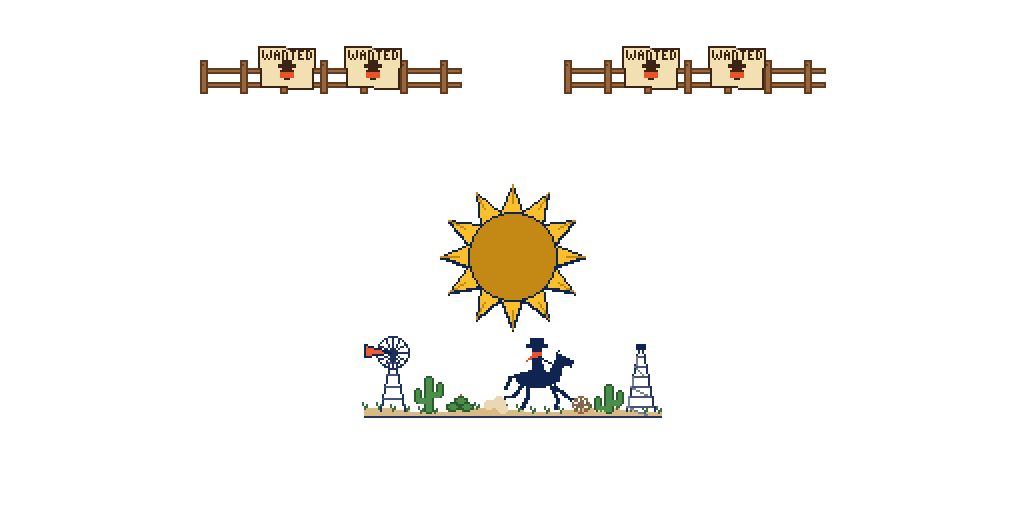
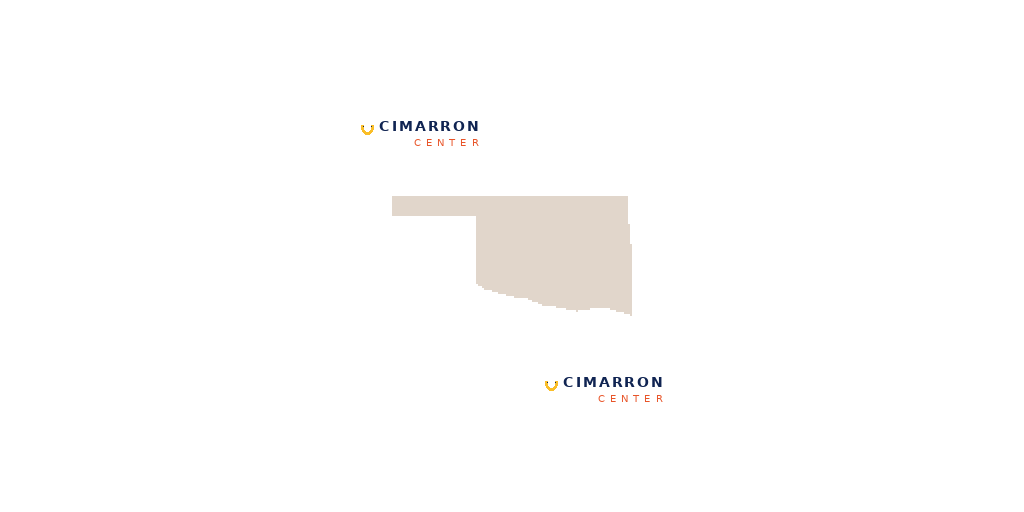
Redesign the OKC Outlaws court as a sleek, minimal floor
Replace the fence, rowel and prairie with a faint wood-stain outline of
Oklahoma behind the logo, a minimal fictional sponsor (Cimarron Center)
placed in open floor between each three-point arc and half court, clear
of the court lines, and #OUTLAWNATION on the near apron.

Claude-Session: https://claude.ai/code/session_019xdidrNboBfdBqy3KgEpk9

diff --git a/hoopland/make_outlaws_overlay.py b/hoopland/make_outlaws_overlay.py
@@ -1,155 +1,71 @@
-"""Generate the OKC Outlaws court overlay for Hoop Land (1024x512 transparent PNG)."""
+"""Generate the OKC Outlaws court overlay for Hoop Land (1024x512 transparent PNG).
+
+A sleek, minimal floor: a faint wood-stain outline of Oklahoma behind the
+logo, a minimal fictional arena sponsor ("Cimarron Center") placed in open
+floor between each three-point arc and half court, and a hashtag on the
+near apron.
+"""
 from court_template import COURT
-from PIL import Image, ImageDraw
-import math, os
+from PIL import Image, ImageDraw, ImageFont
+import os
 
 W, H = 1024, 512
-LW, LH = W // 2, H // 2  # pixel-art layer, upscaled 2x
+STAIN = (146, 104, 66)
 NAVY = (16, 36, 82)
 ORANGE = (232, 84, 40)
 GOLD = (250, 190, 40)
-GOLD_DARK = (196, 136, 20)
-WOOD = (150, 98, 56)
-WOOD_DARK = (96, 60, 30)
-PARCH = (242, 224, 178)
-INK = (60, 36, 20)
-TAN = (214, 180, 120)
-DUST = (232, 210, 166)
-CACTUS = (70, 140, 70)
-CACTUS_DARK = (40, 92, 44)
+WHITE = (255, 255, 255)
 HERE = os.path.dirname(os.path.abspath(__file__))
-LEFT, TOP, RIGHT, BOTTOM = (v // 2 for v in COURT)   # court edges on the 2x pixel grid
-CX, CY = (LEFT + RIGHT) // 2, (TOP + BOTTOM) // 2
-SCORER = (234, 278)                                   # scorer's table gap on the far apron
+CX, CY = (COURT[0] + COURT[2]) / 2, (COURT[1] + COURT[3]) / 2
+SANS = "/usr/share/fonts/truetype/dejavu/DejaVuSans-Bold.ttf"
+SANS_LIGHT = "/usr/share/fonts/truetype/dejavu/DejaVuSans.ttf"
 
-img = Image.new("RGBA", (LW, LH), (0, 0, 0, 0))
+# ---------- faint outline of Oklahoma behind the logo ----------
+# (longitude, latitude) around the border, panhandle first, Red River along the bottom
+BORDER = ((-103.0, 37.0), (-94.62, 37.0), (-94.62, 36.5), (-94.43, 35.4), (-94.48, 33.64), (-95.5, 33.88),
+          (-96.4, 33.75), (-97.1, 33.85), (-97.6, 33.9), (-98.1, 34.1), (-98.6, 34.15), (-99.2, 34.25),
+          (-99.7, 34.4), (-100.0, 34.56), (-100.0, 36.5), (-103.0, 36.5))
+STATE_W = 240                                             # stays inside the three-point arcs
+STATE_H = STATE_W / 2.05                                  # Oklahoma's width-to-height at its latitude
+def project(lon, lat):
+    return (CX - STATE_W / 2 + (lon + 103.0) / 8.57 * STATE_W,
+            CY - STATE_H / 2 + (37.0 - lat) / 3.36 * STATE_H)
+pixel = Image.new("RGBA", (W // 2, H // 2), (0, 0, 0, 0))   # draw on the 2x pixel grid for chunky edges
+ImageDraw.Draw(pixel).polygon([(x / 2, y / 2) for x, y in (project(*p) for p in BORDER)], fill=STAIN + (70,))
+img = pixel.resize((W, H), Image.NEAREST)
+
+# ---------- Cimarron Center: minimal fictional arena sponsor ----------
 d = ImageDraw.Draw(img)
+word_font, sub_font = ImageFont.truetype(SANS, 14), ImageFont.truetype(SANS_LIGHT, 10)
 
-GLYPHS = {
-    "W": ("#...#", "#...#", "#.#.#", "#.#.#", ".#.#."), "A": (".#.", "#.#", "###", "#.#", "#.#"),
-    "N": ("##.", "#.#", "#.#", "#.#", "#.#"), "T": ("###", ".#.", ".#.", ".#.", ".#."),
-    "E": ("###", "#..", "##.", "#..", "###"), "D": ("##.", "#.#", "#.#", "#.#", "##."),
-    "$": (".##", "##.", ".#.", ".##", "##."), "1": (".#.", "##.", ".#.", ".#.", "###"),
-    "0": ("###", "#.#", "#.#", "#.#", "###"),
-}
-def text(word, x, y, col):
-    for ch in word:
-        for r, row in enumerate(GLYPHS[ch]):
-            for c, px in enumerate(row):
-                if px == "#":
-                    d.point((x + c, y + r), fill=col + (255,))
-        x += len(GLYPHS[ch][0]) + 1
+def spaced(x, y, text, font, fill, spacing):
+    for ch in text:
+        d.text((x, y), ch, font=font, fill=fill)
+        x += d.textlength(ch, font=font) + spacing
 
-# ---------- ranch fence with WANTED posters on the far apron ----------
-RAIL_Y = (TOP - 14, TOP - 7)
-for x0, x1 in ((LEFT + 4, SCORER[0] - 4), (SCORER[1] + 4, RIGHT - 4)):
-    for y in RAIL_Y:
-        d.rectangle([x0, y, x1, y + 2], fill=WOOD + (245,), outline=WOOD_DARK + (255,))
-    for x in range(x0, x1 + 1, 20):
-        d.rectangle([x, TOP - 18, x + 3, TOP - 2], fill=WOOD + (250,), outline=WOOD_DARK + (255,))
-        d.point((x + 1, TOP - 16), fill=WOOD_DARK + (255,))
-    for px in (x0 + (x1 - x0) // 3 - 14, x0 + 2 * (x1 - x0) // 3 - 14):
-        py = TOP - 25
-        d.polygon([(px, py), (px + 28, py + 1), (px + 27, py + 21), (px + 1, py + 20)], fill=PARCH + (255,), outline=INK + (255,))
-        text("WANTED", px + 2, py + 2, INK)
-        d.ellipse([px + 11, py + 10, px + 17, py + 16], fill=INK + (255,))             # outlaw mugshot
-        d.rectangle([px + 10, py + 9, px + 18, py + 10], fill=INK + (255,))            # hat brim
-        d.rectangle([px + 12, py + 7, px + 16, py + 9], fill=INK + (255,))
-        d.rectangle([px + 11, py + 13, px + 17, py + 15], fill=ORANGE + (255,))        # bandana
-        d.point((px + 14, py + 1), fill=(120, 120, 130, 255))                         # nail
+def width(text, font, spacing):
+    return sum(d.textlength(ch, font=font) for ch in text) + spacing * (len(text) - 1)
 
-# ---------- spur rowel behind the logo ----------
-R_IN, R_OUT, POINTS = 22, 36, 12
-pts = []
-for k in range(POINTS * 2):
-    r = R_OUT if k % 2 == 0 else R_IN
-    a = math.radians(-90 + k * 180 / POINTS)
-    pts.append((CX + r * math.cos(a), CY + r * math.sin(a)))
-d.polygon([(x, y + 1) for x, y in pts], fill=NAVY + (255,))
-d.polygon(pts, fill=GOLD + (250,), outline=NAVY + (255,))
-for k in range(0, POINTS * 2, 2):                         # bevel down each spike
-    x, y = pts[k]
-    d.line([(CX + (x - CX) * 0.75, CY + (y - CY) * 0.75), (x, y)], fill=GOLD_DARK + (255,))
-d.ellipse([CX - R_IN, CY - R_IN, CX + R_IN, CY + R_IN], fill=GOLD_DARK + (255,), outline=NAVY + (255,))
+def sponsor(cx, cy):
+    """Draw the sponsor centered on (cx, cy) and return its bounding box."""
+    word_w = width("CIMARRON", word_font, 2)
+    total = 18 + word_w
+    x = cx - total / 2
+    d.arc([x, cy - 8, x + 12, cy + 6], 200, 340 + 360, fill=GOLD + (255,), width=3)   # a horseshoe, open at the top
+    d.rectangle([x, cy - 8, x + 12, cy - 4], fill=(0, 0, 0, 0))
+    for nx, ny in ((x + 2, cy - 2), (x + 10, cy - 2)):
+        d.point((nx, ny), fill=NAVY + (255,))
+    spaced(x + 18, cy - 10, "CIMARRON", word_font, NAVY + (255,), 2)
+    sub_w = width("CENTER", sub_font, 5)
+    spaced(x + total - sub_w, cy + 8, "CENTER", sub_font, ORANGE + (255,), 5)
+    return (x - 2, cy - 12, x + total + 2, cy + 21)
 
-# ---------- prairie along the near sideline ----------
-BASE = BOTTOM
-for x in range(182, 331):                                 # dusty ground with grass tufts
-    top = BASE - 3 - round(1.0 * math.sin(x * 0.11))
-    d.line([(x, top), (x, BASE - 1)], fill=TAN + (235,))
-    if x % 7 == 0:
-        d.line([(x, top), (x - 1, top - 3)], fill=CACTUS_DARK + (230,))
-        d.line([(x, top), (x + 1, top - 2)], fill=CACTUS_DARK + (230,))
+# Open floor between each three-point arc and half court, clear of the arcs, hash marks and logo.
+SPONSOR_SPOTS = ((420, 128), (1024 - 420, 512 - 128))
+boxes = [sponsor(*spot) for spot in SPONSOR_SPOTS]
 
-# windmill
-WX = 196
-for sgn in (-1, 1):
-    d.line([(WX + sgn * 6, BASE - 3), (WX + sgn * 1, BASE - 30)], fill=NAVY + (240,))
-for y in range(BASE - 27, BASE - 3, 6):
-    d.line([(WX - 6 + (BASE - 3 - y) / 5.4, y), (WX + 6 - (BASE - 3 - y) / 5.4, y)], fill=NAVY + (200,))
-HUB = (WX, BASE - 32)
-for k in range(12):
-    a = math.radians(k * 30)
-    d.line([HUB, (HUB[0] + 8 * math.cos(a), HUB[1] + 8 * math.sin(a))], fill=NAVY + (240,))
-d.ellipse([HUB[0] - 8, HUB[1] - 8, HUB[0] + 8, HUB[1] + 8], outline=NAVY + (240,))
-d.polygon([(HUB[0] - 1, HUB[1]), (HUB[0] - 14, HUB[1] - 4), (HUB[0] - 14, HUB[1] + 2)], fill=ORANGE + (240,), outline=NAVY + (255,))  # tail vane
+# ---------- hashtag on the near apron ----------
+d.text((CX, COURT[3] + 30), "#OUTLAWNATION", font=ImageFont.truetype(SANS, 16), fill=WHITE + (255,), anchor="mm")
 
-# saguaro and prickly pear
-def saguaro(x, h):
-    d.rounded_rectangle([x - 2, BASE - h, x + 2, BASE - 2], 2, fill=CACTUS + (250,), outline=CACTUS_DARK + (255,))
-    d.rounded_rectangle([x - 7, BASE - h + 6, x - 4, BASE - h + 13], 1, fill=CACTUS + (250,), outline=CACTUS_DARK + (255,))
-    d.rectangle([x - 5, BASE - h + 11, x - 2, BASE - h + 13], fill=CACTUS + (250,))
-    d.rounded_rectangle([x + 4, BASE - h + 3, x + 7, BASE - h + 10], 1, fill=CACTUS + (250,), outline=CACTUS_DARK + (255,))
-    d.rectangle([x + 2, BASE - h + 8, x + 5, BASE - h + 10], fill=CACTUS + (250,))
-saguaro(214, 20)
-saguaro(304, 16)
-for cx_, cy_ in ((226, BASE - 5), (230, BASE - 8), (233, BASE - 5)):
-    d.ellipse([cx_ - 3, cy_ - 2, cx_ + 3, cy_ + 2], fill=CACTUS + (250,), outline=CACTUS_DARK + (255,))
-d.point((230, BASE - 11), fill=ORANGE + (255,))
-
-# outlaw galloping on horseback, kicking up dust
-OX, OB = 252, BASE - 3
-for x, y, r in ((OX - 3, OB - 4, 3), (OX - 8, OB - 3, 2), (OX - 1, OB - 1, 2)):
-    d.ellipse([x - r, y - r, x + r, y + r], fill=DUST + (220,))
-HORSE = NAVY + (255,)
-d.ellipse([OX + 6, OB - 20, OX + 26, OB - 12], fill=HORSE)                                   # body
-d.polygon([(OX + 22, OB - 19), (OX + 26, OB - 27), (OX + 30, OB - 27), (OX + 27, OB - 15)], fill=HORSE)   # neck
-d.polygon([(OX + 26, OB - 29), (OX + 34, OB - 25), (OX + 33, OB - 22), (OX + 27, OB - 24)], fill=HORSE)   # head
-d.point((OX + 27, OB - 30), fill=HORSE)
-d.line([(OX + 8, OB - 18), (OX + 2, OB - 16), (OX, OB - 11)], fill=HORSE, width=2)            # tail
-for leg in (((OX + 24, OB - 13), (OX + 30, OB - 8), (OX + 33, OB - 6)),
-            ((OX + 22, OB - 13), (OX + 26, OB - 6), (OX + 25, OB - 1)),
-            ((OX + 9, OB - 13), (OX + 4, OB - 7), (OX, OB - 6)),
-            ((OX + 11, OB - 13), (OX + 11, OB - 6), (OX + 8, OB - 1))):
-    d.line(leg, fill=HORSE, width=2)
-d.polygon([(OX + 14, OB - 20), (OX + 19, OB - 20), (OX + 18, OB - 28), (OX + 14, OB - 28)], fill=HORSE)   # rider
-d.ellipse([OX + 14, OB - 32, OX + 18, OB - 28], fill=HORSE)
-d.rectangle([OX + 11, OB - 33, OX + 21, OB - 32], fill=HORSE)                                  # hat brim
-d.rectangle([OX + 13, OB - 36, OX + 19, OB - 33], fill=HORSE)
-d.line([(OX + 18, OB - 26), (OX + 25, OB - 23)], fill=HORSE)                                    # reins arm
-d.line([(OX + 16, OB - 20), (OX + 19, OB - 15), (OX + 17, OB - 13)], fill=HORSE, width=2)       # leg
-d.polygon([(OX + 14, OB - 28), (OX + 18, OB - 28), (OX + 11, OB - 25)], fill=ORANGE + (255,))   # bandana tail
-d.rectangle([OX + 14, OB - 29, OX + 18, OB - 28], fill=ORANGE + (255,))
-
-# Oklahoma oil derrick
-DX = 320
-for sgn in (-1, 1):
-    d.line([(DX + sgn * 7, BASE - 3), (DX + sgn * 1, BASE - 34)], fill=NAVY + (240,))
-for k, y in enumerate(range(BASE - 30, BASE - 3, 5)):
-    half = 1 + (y - (BASE - 34)) * 6 / 31
-    d.line([(DX - half, y), (DX + half, y)], fill=NAVY + (200,))
-    d.line([(DX - half, y), (DX + half * (1 if k % 2 else -1) * 0.9, y + 5)], fill=NAVY + (150,))
-d.rectangle([DX - 2, BASE - 36, DX + 2, BASE - 34], fill=NAVY + (255,))
-
-# tumbleweed rolling past
-TX, TY = 290, BASE - 6
-for k in range(8):
-    a = math.radians(k * 45)
-    d.arc([TX - 4, TY - 4, TX + 4, TY + 4], k * 45, k * 45 + 70, fill=WOOD + (255,))
-    d.line([(TX, TY), (TX + 3 * math.cos(a), TY + 3 * math.sin(a))], fill=WOOD_DARK + (200,))
-for k in range(3):
-    d.point((TX + 7 + k * 2, TY + 3), fill=DUST + (230,))
-d.line([(182, BASE), (330, BASE)], fill=NAVY + (235,))
-
-img.resize((W, H), Image.NEAREST).save(os.path.join(HERE, "okc-outlaws-overlay.png"))
-print("saved")
+img.save(os.path.join(HERE, "okc-outlaws-overlay.png"))
+print("saved; sponsor boxes:", [tuple(round(v) for v in b) for b in boxes])
